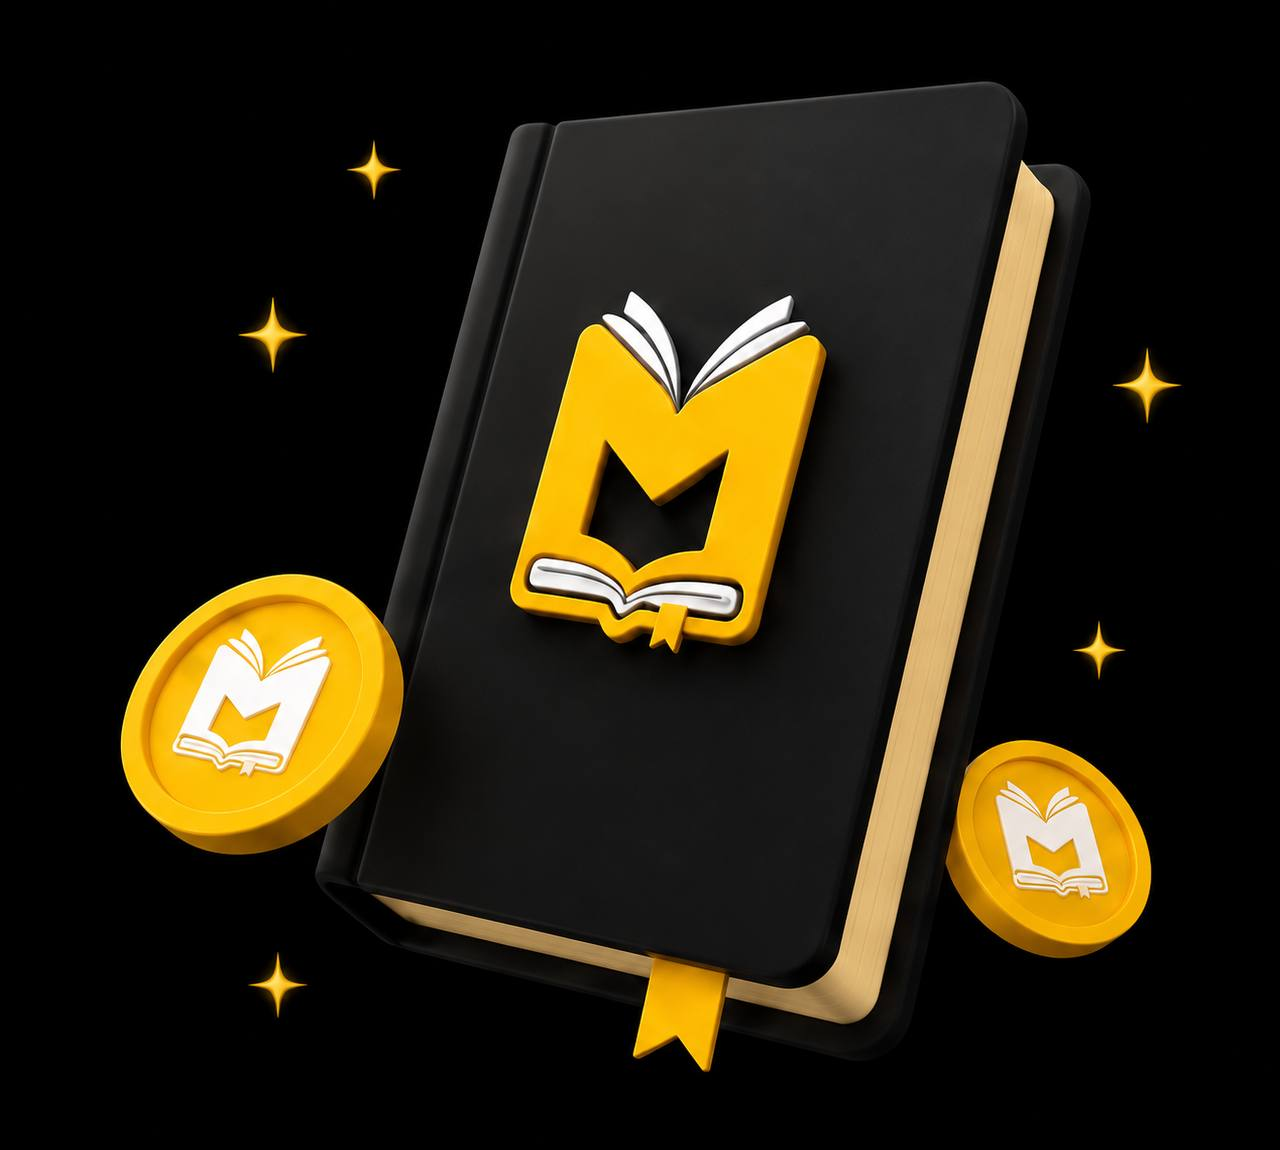
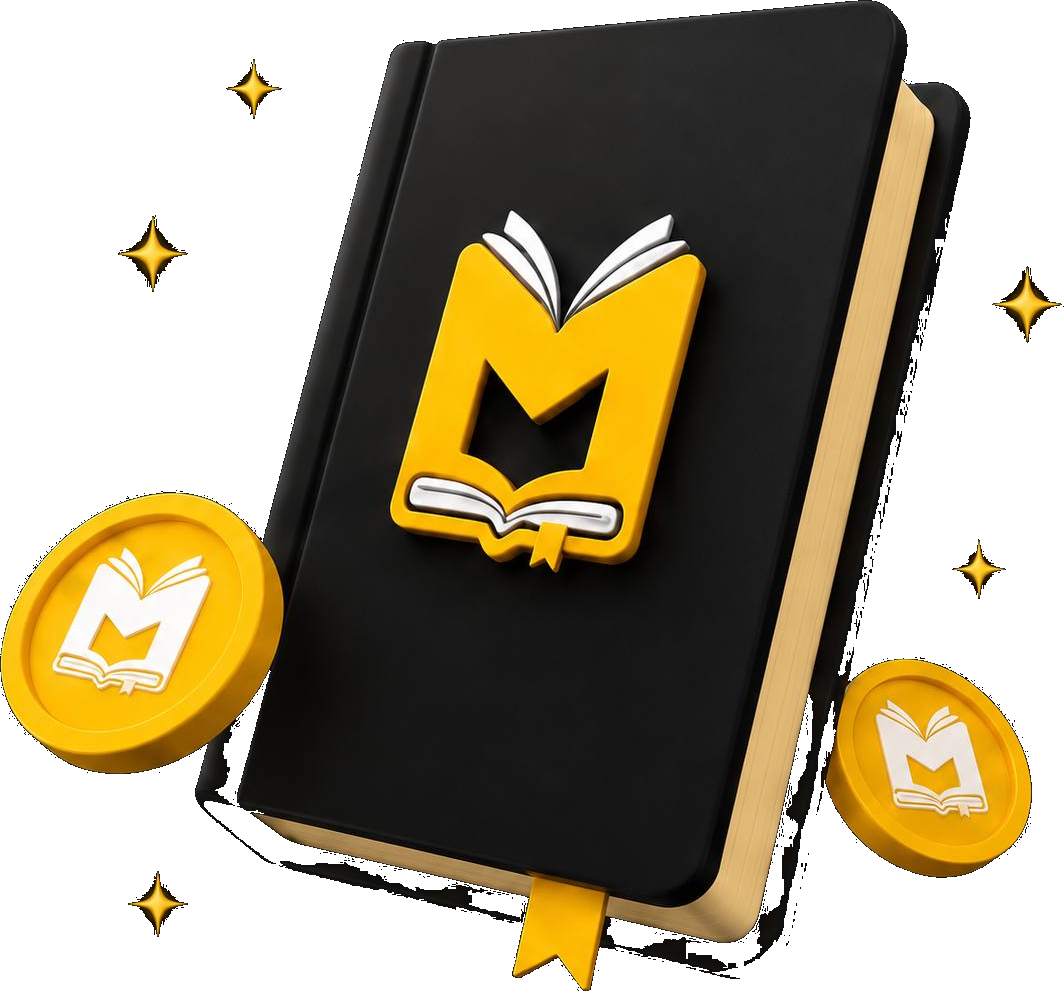
Landing: transparent book image + restore sections below hero
- Cut black background from hero book (flood-fill) so it blends in;
  remove the now-unneeded edge mask
- Restore How It Works + closing CTA below the hero

diff --git a/components/landing/LandingPage.tsx b/components/landing/LandingPage.tsx
@@ -1,5 +1,41 @@
+"use client";
+
+import { ArrowRight } from "lucide-react";
+import { HowItWorks } from "@/components/home/HowItWorks";
+import { useAuth } from "@/components/providers/AuthProvider";
 import { LandingHero } from "./LandingHero";
 
 export function LandingPage() {
-  return <LandingHero />;
+  const { openConnect } = useAuth();
+
+  return (
+    <>
+      <LandingHero />
+      <HowItWorks />
+
+      {/* closing CTA */}
+      <section className="mt-20">
+        <div className="relative overflow-hidden rounded-[28px] border border-gold/20 bg-gradient-to-br from-bg-2 to-surface p-8 text-center sm:p-14">
+          <div className="pointer-events-none absolute -right-16 -top-16 h-64 w-64 rounded-full bg-gold/20 blur-3xl" />
+          <div className="pointer-events-none absolute -bottom-20 left-1/3 h-64 w-64 rounded-full bg-green/10 blur-3xl" />
+          <div className="relative mx-auto max-w-xl">
+            <h2 className="font-display text-3xl font-bold leading-tight text-balance sm:text-4xl">
+              Ready to <span className="text-gold-grad">compete?</span>
+            </h2>
+            <p className="mx-auto mt-3 max-w-md text-[15px] text-muted">
+              Open the Book to enter Memebook — discover live challenges and start
+              earning on-chain rewards.
+            </p>
+            <button
+              onClick={openConnect}
+              className="group mt-7 inline-flex h-14 items-center justify-center gap-2 rounded-2xl bg-gradient-to-b from-gold-bright to-gold px-8 text-[15px] font-semibold text-black transition-shadow hover:shadow-[0_12px_44px_-8px_rgba(240,185,11,0.65)]"
+            >
+              Open the Book
+              <ArrowRight size={18} className="transition-transform group-hover:translate-x-0.5" />
+            </button>
+          </div>
+        </div>
+      </section>
+    </>
+  );
 }

diff --git a/components/landing/LandingHero.tsx b/components/landing/LandingHero.tsx
@@ -72,18 +72,7 @@ export function LandingHero() {
           className="relative mx-auto w-full max-w-[520px]"
         >
           <div className="pointer-events-none absolute inset-0 -z-10 bg-gold/12 blur-[120px]" />
-          <img
-            src="/hero-book.png"
-            alt="Memebook"
-            draggable={false}
-            className="w-full select-none"
-            style={{
-              WebkitMaskImage:
-                "radial-gradient(ellipse 78% 78% at 50% 50%, #000 62%, transparent 92%)",
-              maskImage:
-                "radial-gradient(ellipse 78% 78% at 50% 50%, #000 62%, transparent 92%)",
-            }}
-          />
+          <img src="/hero-book.png" alt="Memebook" draggable={false} className="w-full select-none" />
         </motion.div>
       </div>
 